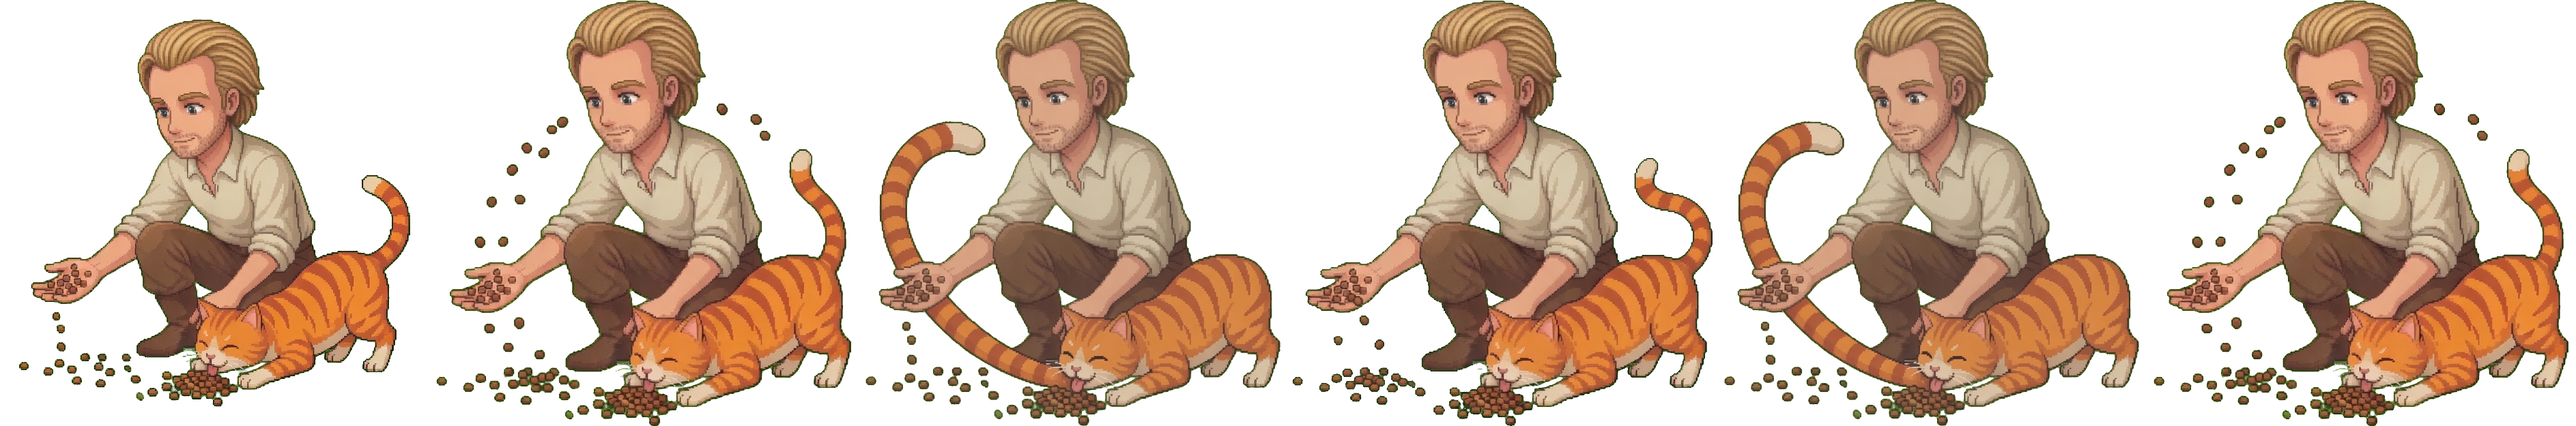
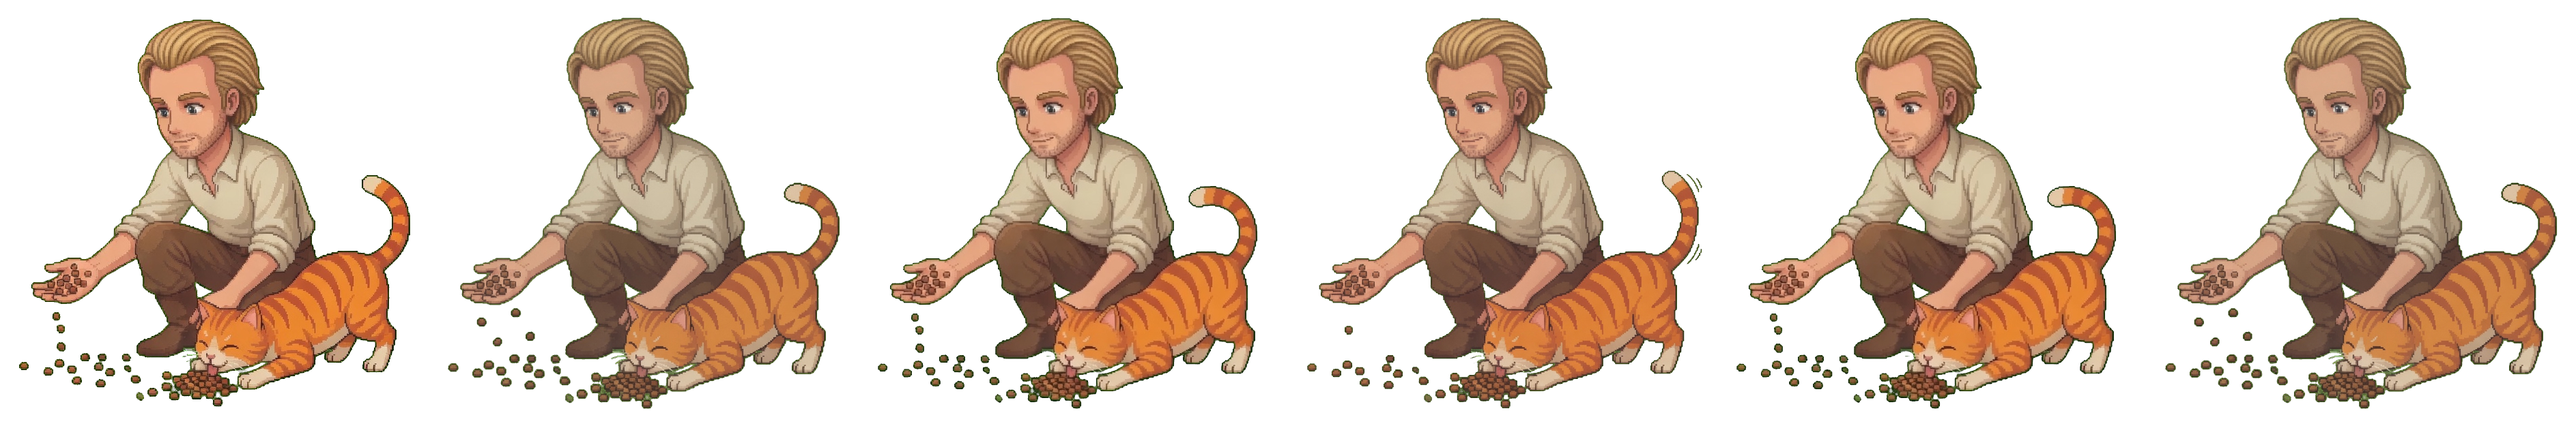
Hug the mobile hero sprite to the name and stabilize live frames
Park the art immediately beside the title on small screens. Rebuild hover sheets on the still canvas so the figure does not drift. Soften the 00s tail so it stays behind the cat. 00s and modern sit at slight opacity until hover.

Changed region(s): [[0.155, 0.0, 1.0, 1.0]]

diff --git a/app/globals.css b/app/globals.css
@@ -717,9 +717,10 @@
 
 .hero-inner {
   display: grid;
-  grid-template-columns: minmax(0, 1fr) auto;
+  grid-template-columns: max-content auto;
+  justify-content: start;
   align-items: start;
-  column-gap: 0.75rem;
+  column-gap: 0.55rem;
   row-gap: 1.35rem;
   width: 100%;
   max-width: 72rem;
@@ -747,7 +748,7 @@
   grid-column: 2;
   grid-row: 1;
   align-self: start;
-  justify-self: end;
+  justify-self: start;
   user-select: none;
 }
 
@@ -796,6 +797,12 @@
   image-rendering: auto;
 }
 
+:root[data-era="2000s"] .hero-art-still,
+:root[data-era="modern"] .hero-art-still {
+  opacity: 0.82;
+  transition: opacity 180ms ease;
+}
+
 @media (hover: hover) and (pointer: fine) {
   .hero-art-shot:hover .hero-art-still {
     opacity: 0;
@@ -808,11 +815,21 @@
   .hero-art-shot:hover .hero-art-live img {
     animation: hero-live-sheet 0.86s steps(6) infinite;
   }
+
+  :root[data-era="2000s"] .hero-art-shot:hover .hero-art-live,
+  :root[data-era="modern"] .hero-art-shot:hover .hero-art-live {
+    opacity: 1;
+  }
 }
 
 @media (prefers-reduced-motion: reduce) {
   .hero-art-shot:hover .hero-art-still {
     opacity: 1;
+  }
+
+  :root[data-era="2000s"] .hero-art-shot:hover .hero-art-still,
+  :root[data-era="modern"] .hero-art-shot:hover .hero-art-still {
+    opacity: 0.82;
   }
 
   .hero-art-shot:hover .hero-art-live {
